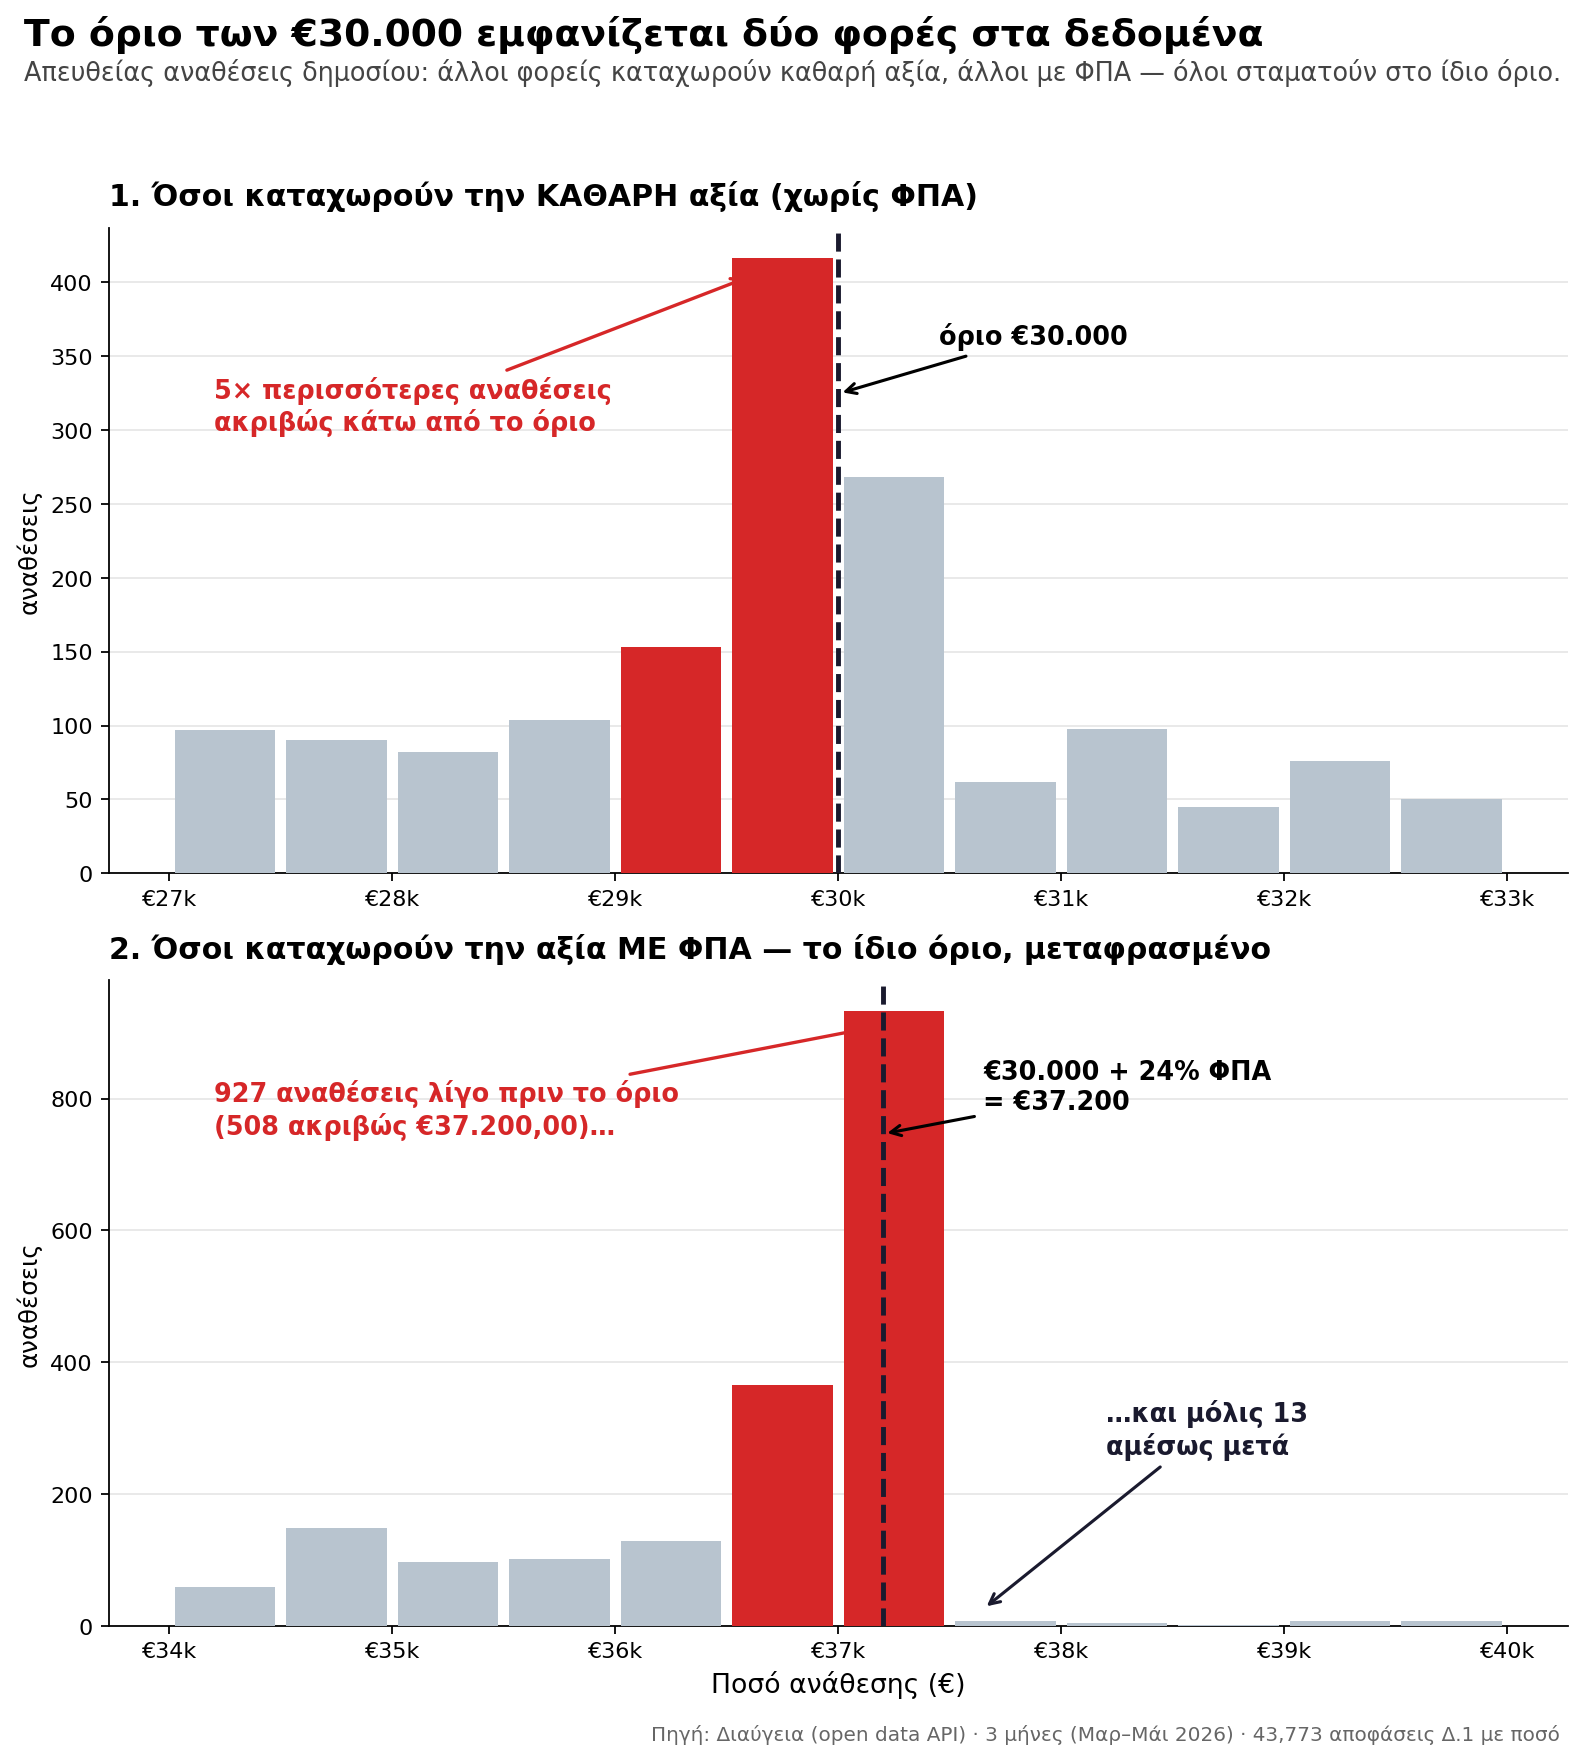
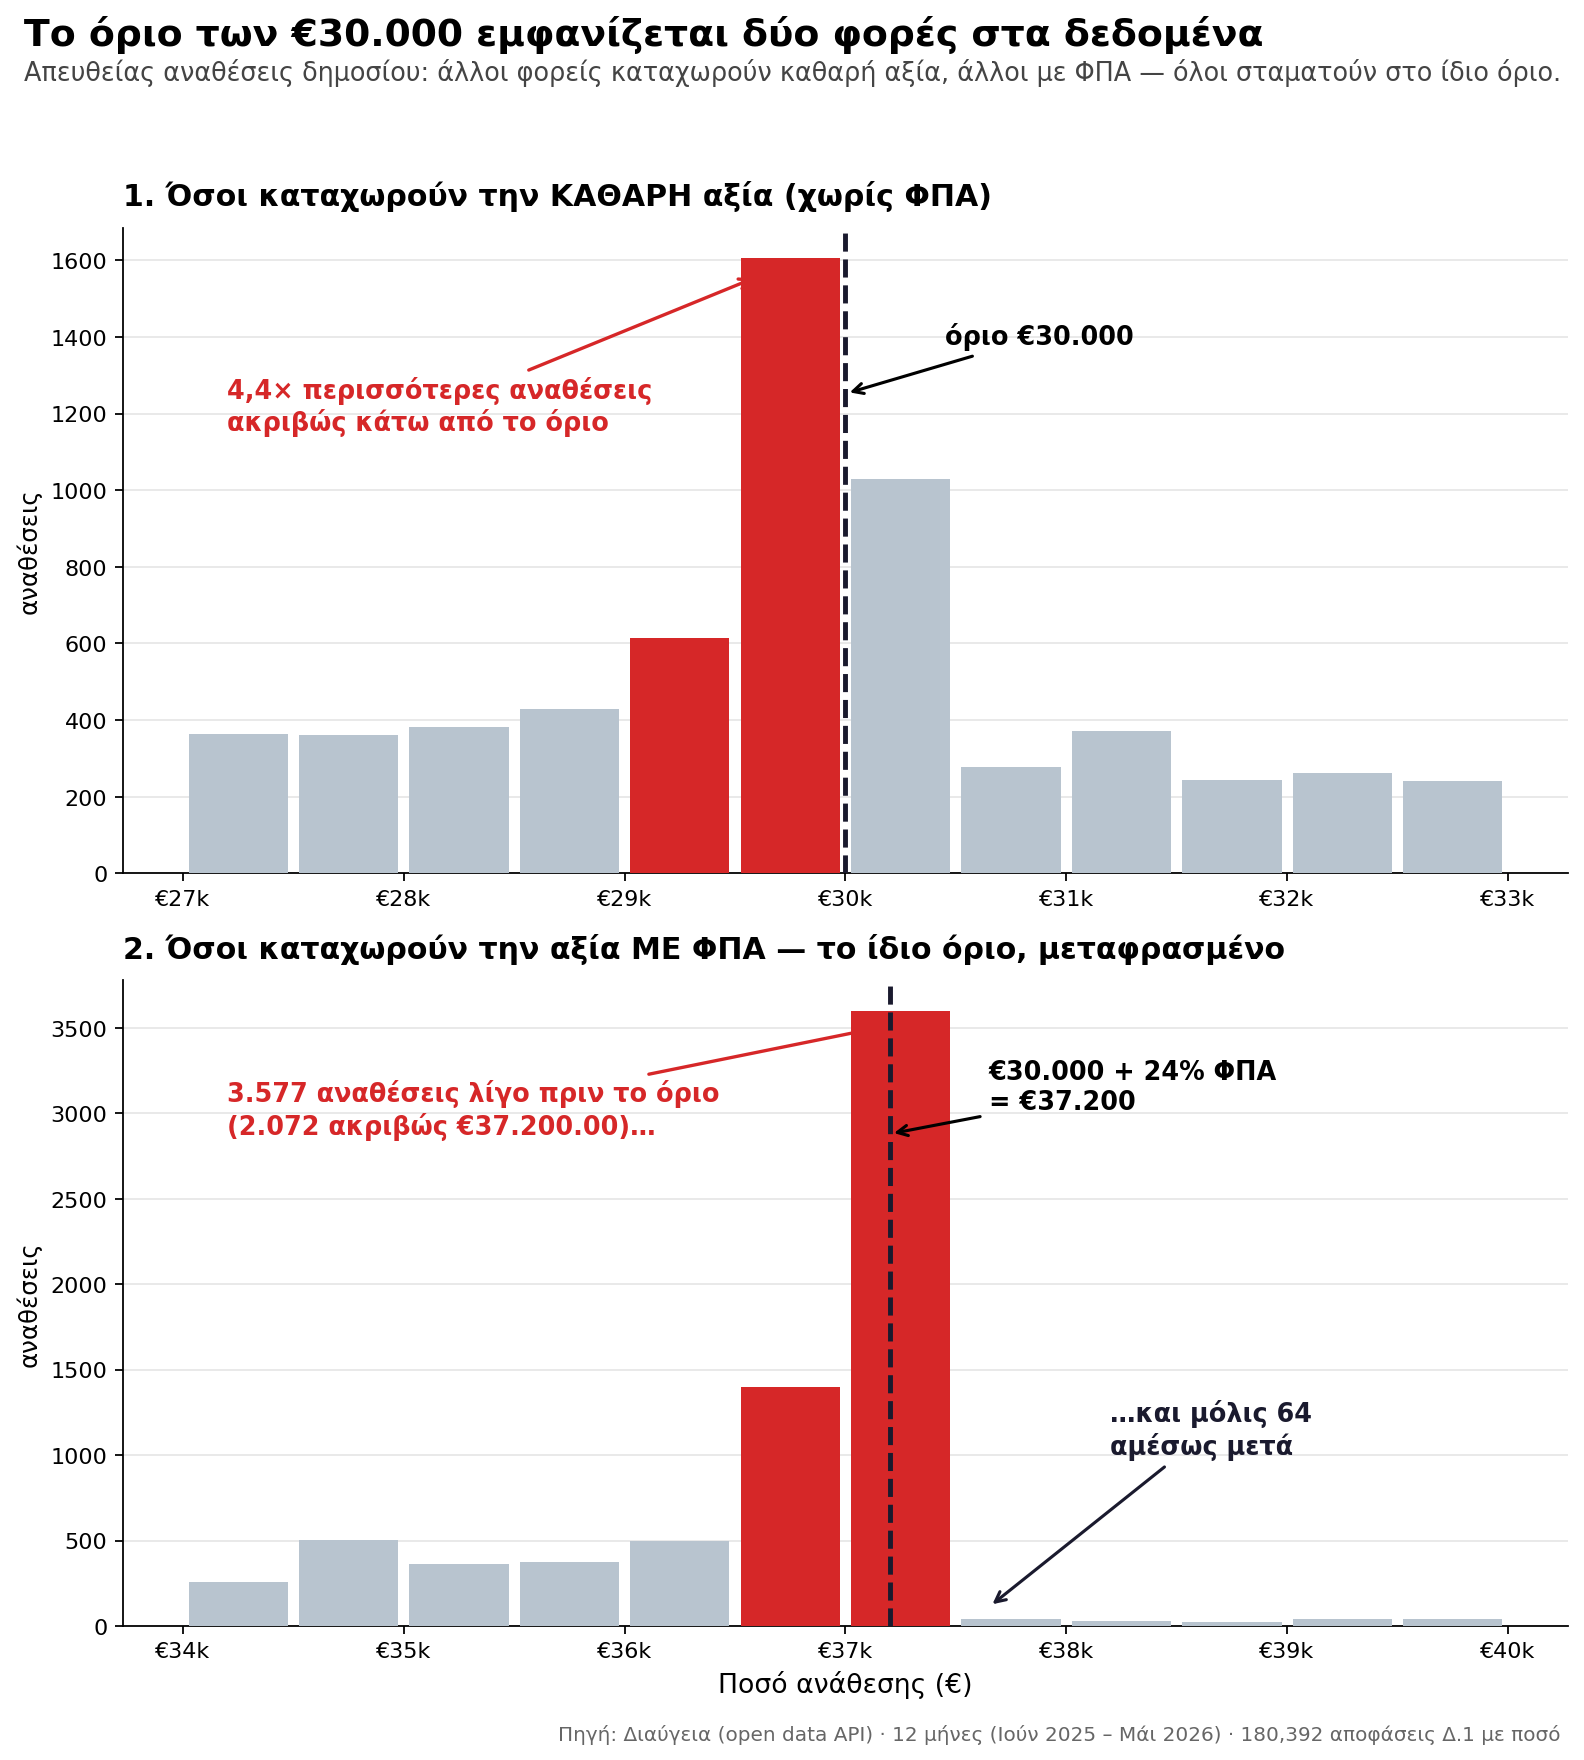
Update to full-year data: Jun 2025 - May 2026, 315,614 decisions
- Bunching holds in all 12 months: 4.4x avg (3.3-6.0x range)
- 2,072 awards at exactly 37,200.00 EUR; 3,577 vs 64 cliff at the gross limit
- EUR 1.31B/year in <=60k direct awards, now measured not extrapolated
- Chart annotations made dynamic (ratio, band counts auto-computed)
- December budget-burn seasonality noted in findings log (future post)

diff --git a/scripts/bunching.py b/scripts/bunching.py
@@ -59,6 +59,9 @@ def main(paths):
     W = 500
     GRAY, RED, DARK = "#b8c4cf", "#d62728", "#1a1a2e"
     n_exact_372 = sum(1 for a in all_amounts if a == 37200.0)
+    ratio_str = f"{under / max(over, 1):.1f}".replace(".", ",")
+    n_band372 = sum(1 for a in all_amounts if 37000 <= a <= 37200)
+    n_after372 = sum(1 for a in all_amounts if 37200 < a <= 38000)
 
     def histo(ax, lo, hi, red_bins, vline):
         nb = (hi - lo) // W
@@ -87,7 +90,7 @@ def main(paths):
     ax1.annotate("όριο €30.000", xy=(30000, top * 0.78), xytext=(30450, top * 0.86),
                  fontsize=11.5, fontweight="bold",
                  arrowprops=dict(arrowstyle="->", lw=1.4))
-    ax1.annotate("5× περισσότερες αναθέσεις\nακριβώς κάτω από το όριο",
+    ax1.annotate(f"{ratio_str}× περισσότερες αναθέσεις\nακριβώς κάτω από το όριο",
                  xy=(29600, ys[xs.index(29500)] * 0.97), xytext=(27200, top * 0.72),
                  fontsize=11.5, color=RED, fontweight="bold",
                  arrowprops=dict(arrowstyle="->", color=RED, lw=1.5))
@@ -100,11 +103,11 @@ def main(paths):
     ax2.annotate("€30.000 + 24% ΦΠΑ\n= €37.200", xy=(37200, top * 0.80), xytext=(37650, top * 0.84),
                  fontsize=11.5, fontweight="bold",
                  arrowprops=dict(arrowstyle="->", lw=1.4))
-    ax2.annotate(f"927 αναθέσεις λίγο πριν το όριο\n({n_exact_372} ακριβώς €37.200,00)…",
+    ax2.annotate(f"{n_band372:,} αναθέσεις λίγο πριν το όριο\n({n_exact_372:,} ακριβώς €37.200,00)…".replace(",", "."),
                  xy=(37250, top * 0.98), xytext=(34200, top * 0.80),
                  fontsize=11.5, color=RED, fontweight="bold",
                  arrowprops=dict(arrowstyle="->", color=RED, lw=1.5))
-    ax2.annotate("…και μόλις 13\nαμέσως μετά", xy=(37650, ys[xs.index(37500)] + top * 0.02),
+    ax2.annotate(f"…και μόλις {n_after372}\nαμέσως μετά", xy=(37650, ys[xs.index(37500)] + top * 0.02),
                  xytext=(38200, top * 0.28), fontsize=11.5, color=DARK, fontweight="bold",
                  arrowprops=dict(arrowstyle="->", color=DARK, lw=1.4))
     ax2.set_xlabel("Ποσό ανάθεσης (€)", fontsize=12)
@@ -115,7 +118,7 @@ def main(paths):
                           "άλλοι με ΦΠΑ — όλοι σταματούν στο ίδιο όριο.",
              fontsize=11.5, color="#444")
     months = len(paths)
-    fig.text(0.98, 0.005, f"Πηγή: Διαύγεια (open data API) · {months} μήνες (Μαρ–Μάι 2026) · "
+    fig.text(0.98, 0.005, f"Πηγή: Διαύγεια (open data API) · {months} μήνες (Ιούν 2025 – Μάι 2026) · "
                           f"{len(all_amounts):,} αποφάσεις Δ.1 με ποσό",
              ha="right", fontsize=9, color="#666")
     fig.tight_layout(rect=[0, 0.015, 1, 0.94])

diff --git a/README.md b/README.md
@@ -28,20 +28,24 @@ No dependencies beyond Python 3 stdlib + matplotlib (for charts).
 
 ### 2026-06 — Το ίδιο όριο, δύο φορές: bunching στο όριο απευθείας ανάθεσης
 
-Period: Mar–May 2026 · 78,852 Δ.1 decisions · 43,773 with structured amounts.
+Period: Jun 2025 – May 2026 (12 months) · 315,614 Δ.1 decisions · 180,392 with
+structured amounts · €1.31B/year in ≤€60k direct awards (measured, not extrapolated).
 
 The €30,000 (pre-VAT) direct-award limit — άρθρο 118 Ν.4412/2016, as replaced
 by άρθρο 50 Ν.4782/2021 — shows up **twice** in the awarded-amount distribution,
 because contracting authorities record amounts inconsistently (net vs gross):
 
-- **Net side:** awards at €29,000–30,000 outnumber €30,001–31,000 by ~5×,
-  stable every month (4.6× / 5.1× / 5.3×). 221 awards at exactly €30,000.00.
-- **Gross side:** 508 awards at exactly **€37,200.00** (= €30,000 + 24% VAT);
-  the €37,000–37,200 band holds 927 awards vs 13 in €37,201–38,000.
-- **Ghost threshold:** 111 awards at exactly €24,800 (= €20,000 + VAT) —
+- **Net side:** awards at €29,000–30,000 outnumber €30,001–31,000 by 4.4×
+  (range 3.3×–6.0×, positive in all 12 months). 816 awards at exactly €30,000.00.
+- **Gross side:** 2,072 awards at exactly **€37,200.00** (= €30,000 + 24% VAT);
+  the €37,000–37,200 band holds 3,577 awards vs 64 in €37,201–38,000 (56× cliff).
+- **Ghost threshold:** 509 awards at exactly €24,800 (= €20,000 + VAT) —
   the *pre-2021* limit, still anchoring behavior 5 years after repeal.
-- **Works limit (€60,000):** same fingerprint — 65 awards at €59–60k vs 9
-  just above; 32 at exactly €74,400 (= €60,000 + VAT).
+- **Works limit (€60,000):** same fingerprint — 331 awards at €59–60k vs 28
+  just above; 121 at exactly €74,400 (= €60,000 + VAT).
+- **Seasonality teaser:** December 2025 is the year's peak month on every
+  metric (35,312 decisions, €180M clean spend, 436 awards in the €29–30k band);
+  January 2026 the trough (13,093). Classic budget-burn — future post.
 
 Chart: `output/bunching_30k.png`
 
